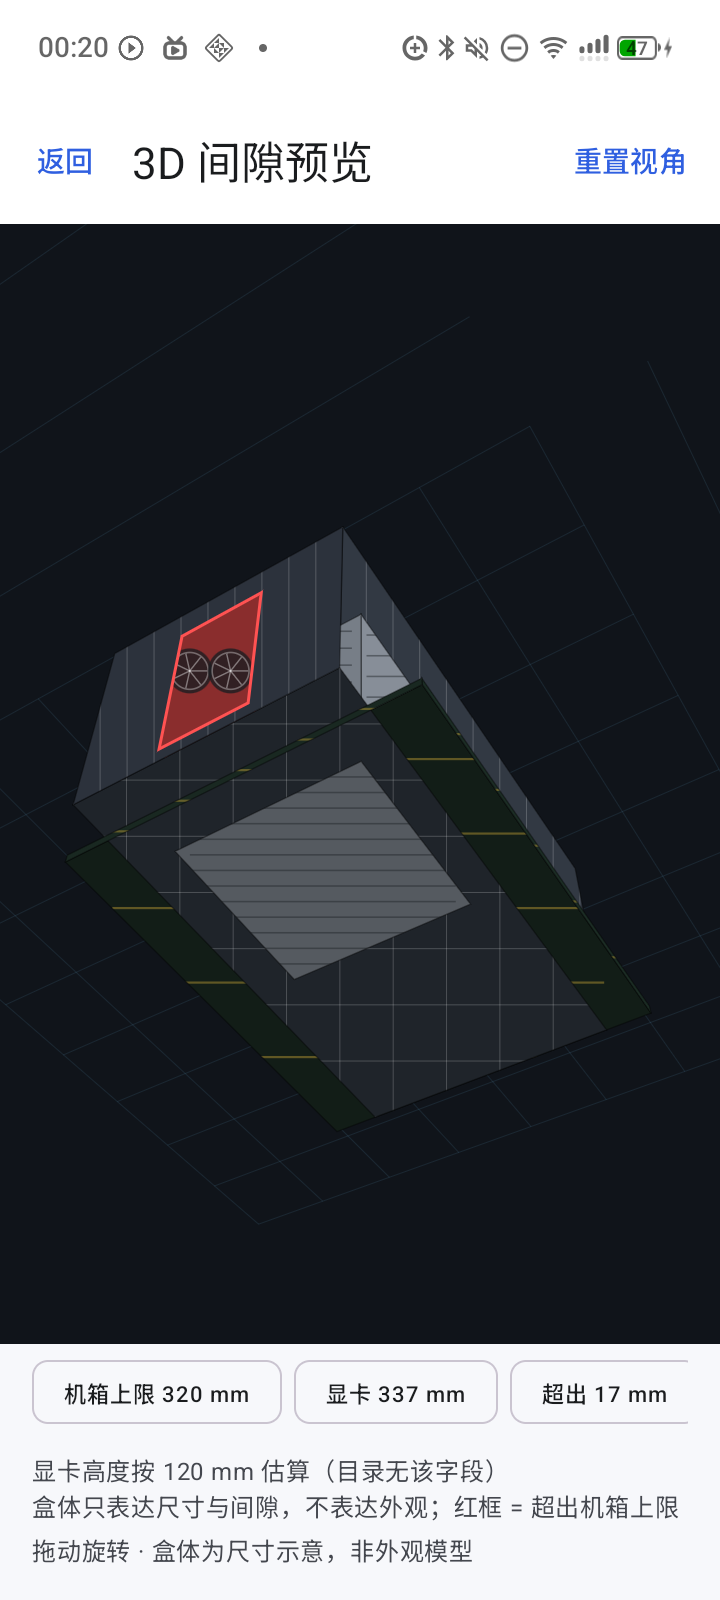
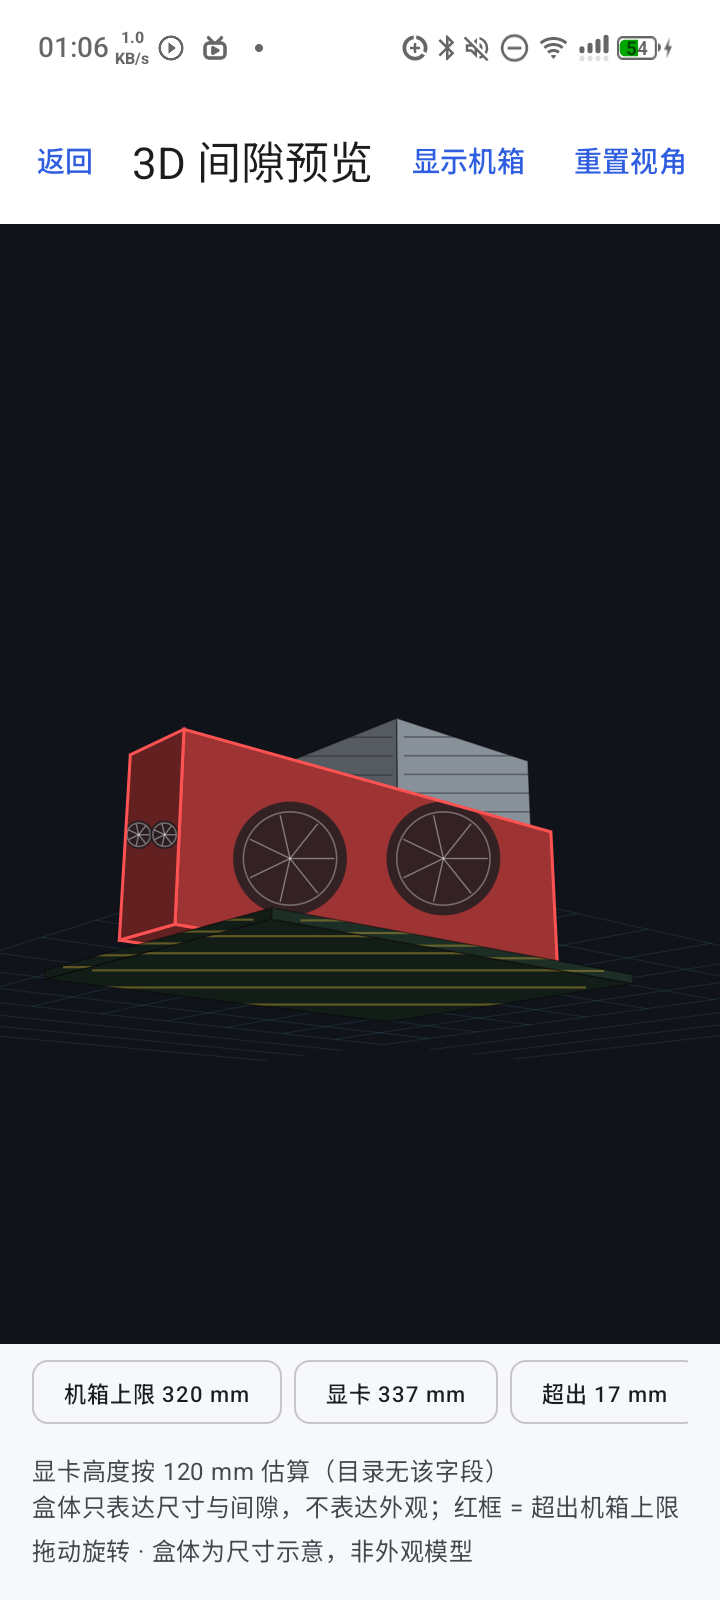
feat(viz): draw case as translucent ghost with show/hide toggle
The case envelope used to occlude the GPU because it was a solid depth-sorted box. It is now a non-sorted translucent wireframe container with a 隐藏机箱/显示机箱 action, so parts stay visible. Documents which four boxes are drawn and why CPU/RAM/PSU/SSD are not.

diff --git a/ui/src/main/kotlin/pcbuildmate/ui/preview/Preview3D.kt b/ui/src/main/kotlin/pcbuildmate/ui/preview/Preview3D.kt
@@ -56,6 +56,10 @@ fun Preview3DScreen(
     var yaw by rememberSaveable { mutableStateOf(0.72f) }
     var pitch by rememberSaveable { mutableStateOf(0.32f) }
     var zoom by rememberSaveable { mutableStateOf(1f) }
+    var showCase by rememberSaveable { mutableStateOf(true) }
+    val visibleScene = remember(scene, showCase) {
+        scene?.let { if (showCase) it else it.copy(boxes = it.boxes.filterNot { b -> b.style == BoxStyle.CASE }) }
+    }
 
     Scaffold(
         topBar = {
@@ -63,6 +67,9 @@ fun Preview3DScreen(
                 title = { Text("3D 间隙预览") },
                 navigationIcon = { TextButton(onClick = onBack) { Text("返回") } },
                 actions = {
+                    TextButton(onClick = { showCase = !showCase }) {
+                        Text(if (showCase) "隐藏机箱" else "显示机箱")
+                    }
                     TextButton(onClick = {
                         yaw = 0.72f
                         pitch = 0.32f
@@ -72,7 +79,7 @@ fun Preview3DScreen(
             )
         },
     ) { padding ->
-        if (scene == null) {
+        if (visibleScene == null) {
             Column(
                 modifier = Modifier
                     .fillMaxSize()
@@ -105,10 +112,10 @@ fun Preview3DScreen(
                 val pose = ViewPose(
                     yaw = yaw,
                     pitch = pitch,
-                    distance = scene.maxExtentMm * 2.7f / zoom,
+                    distance = visibleScene.maxExtentMm * 2.7f / zoom,
                 )
-                drawGroundGrid(scene, pose)
-                drawScene(scene, pose)
+                drawGroundGrid(visibleScene, pose)
+                drawScene(visibleScene, pose)
             }
 
             Column(Modifier.padding(horizontal = 16.dp).padding(bottom = 16.dp)) {
@@ -118,7 +125,7 @@ fun Preview3DScreen(
                         .horizontalScroll(rememberScrollState()),
                     horizontalArrangement = Arrangement.spacedBy(6.dp),
                 ) {
-                    scene.labels.forEach { label ->
+                    visibleScene.labels.forEach { label ->
                         AssistChip(
                             onClick = {},
                             label = { Text(label.text, style = MaterialTheme.typography.labelSmall) },
@@ -126,7 +133,7 @@ fun Preview3DScreen(
                     }
                 }
                 Spacer(Modifier.height(6.dp))
-                scene.notes.forEach { note ->
+                visibleScene.notes.forEach { note ->
                     Text(
                         note,
                         style = MaterialTheme.typography.bodySmall,
@@ -148,14 +155,30 @@ private val lightDir = Vec3(0.35f, 0.75f, -0.55f)
 
 private fun DrawScope.drawScene(scene: Scene3d, pose: ViewPose) {
     val center = Vec3(scene.maxExtentMm / 2f, scene.maxExtentMm * 0.42f, 0f)
-    val faces = scene.boxes.flatMap { box ->
-        facesOf(box)
-            .filter { isVisible(it, pose, center) }
-            .map { face ->
-                val projected = face.corners.map { project(it, center, pose, size.width, size.height) }
-                Triple(box, face, projected)
-            }
-    }.sortedByDescending { (_, _, pts) -> pts.map { it.depth }.average() }
+    fun facesOfBoxes(boxes: List<Box3>): List<Triple<Box3, FaceCorners, List<P2>>> =
+        boxes.flatMap { box ->
+            facesOf(box)
+                .filter { isVisible(it, pose, center) }
+                .map { face ->
+                    val projected = face.corners.map { project(it, center, pose, size.width, size.height) }
+                    Triple(box, face, projected)
+                }
+        }
+
+    // 机箱是"允许空间"容器：先画半透明轮廓，避免遮住内部零件。
+    val ghostFaces = facesOfBoxes(scene.boxes.filter { it.ghost })
+    ghostFaces.forEach { (_, _, pts) ->
+        val path = Path().apply {
+            moveTo(pts[0].x, pts[0].y)
+            for (i in 1 until pts.size) lineTo(pts[i].x, pts[i].y)
+            close()
+        }
+        drawPath(path, Color(0x0FFFFFFF))
+        drawPath(path, Color(0x887AD1FF), style = Stroke(width = 1.6f))
+    }
+
+    val faces = facesOfBoxes(scene.boxes.filterNot { it.ghost })
+        .sortedByDescending { (_, _, pts) -> pts.map { it.depth }.average() }
 
     faces.forEach { (box, face, pts) ->
         val path = Path().apply {

diff --git a/ui/src/test/kotlin/pcbuildmate/ui/preview/Scene3dTest.kt b/ui/src/test/kotlin/pcbuildmate/ui/preview/Scene3dTest.kt
@@ -30,6 +30,16 @@ class Scene3dTest {
     }
 
     @Test
+    fun `case is a ghost container so it cannot hide parts`() {
+        val scene = assertNotNull(SceneBuilder.build(revisionWith(gpu = "337", case = "320"), catalogue()))
+
+        val caseBox = scene.boxes.first { it.style == BoxStyle.CASE }
+        val gpuBox = scene.boxes.first { it.style == BoxStyle.GPU }
+        assertTrue(caseBox.ghost, "机箱必须半透明轮廓")
+        assertTrue(!gpuBox.ghost, "显卡必须实体绘制")
+    }
+
+    @Test
     fun `gpu that fits is not flagged`() {
         val scene = assertNotNull(
             SceneBuilder.build(revisionWith(gpu = "300", case = "320"), catalogue()),

diff --git a/ui/src/main/kotlin/pcbuildmate/ui/preview/Scene3d.kt b/ui/src/main/kotlin/pcbuildmate/ui/preview/Scene3d.kt
@@ -17,6 +17,8 @@ data class Box3(
     val size: Vec3,
     val style: BoxStyle,
     val conflict: Boolean = false,
+    /** 只画半透明轮廓（机箱允许空间），不遮挡内部零件。 */
+    val ghost: Boolean = false,
 )
 
 enum class Tone { NORMAL, WARN, MUTED }
@@ -76,6 +78,7 @@ object SceneBuilder {
             center = Vec3(depth / 2f, height / 2f, 0f),
             size = Vec3(depth, height, width),
             style = BoxStyle.CASE,
+            ghost = true,
         )
         val labels = mutableListOf<DimLabel>()
         if (caseLength != null) {

diff --git a/docs/17-3d-preview.md b/docs/17-3d-preview.md
@@ -40,7 +40,22 @@
 
 入口：Workspace →「3D 间隙预览」（任意配置可用）。
 
-## 17.4 数据与场景
+## 17.4 画了哪些设备
+
+| 盒体 | 数据来源 | 是否可隐藏 |
+|---|---|---|
+| 机箱允许空间 | `maxGpuLengthMm` / `maxGpuThicknessMm` / `maxCoolerHeightMm` | ✅「隐藏机箱」，默认半透明轮廓 |
+| 显卡 | `lengthMm` / `thicknessMm`；高度 120mm 估算 | ❌ |
+| 散热器 | `heightMm`；底面 130×130 示意 | ❌ |
+| 主板 | `formFactor` → ATX 305×244 / mATX 244×244 / ITX 170×170 | ❌ |
+
+**没有画**：CPU、内存、电源、硬盘——契约里没有它们的尺寸字段；
+强行画只能编数字，违反"没有数据就不给数字"的原则。后续若要画，先给字段表加路径（走契约变更）。
+
+机箱默认是**半透明线框容器**，不参与深度排序，先于零件绘制，
+所以不会遮住显卡；顶栏可「隐藏机箱 / 显示机箱」。
+
+## 17.5 数据与场景
 
 ```text
 机箱允许空间: X = maxGpuLengthMm, Y = maxCoolerHeightMm, Z = maxGpuThicknessMm
@@ -53,13 +68,14 @@
 - 散热高度超过 `maxCoolerHeightMm` → 红框；
 - 无独显配置只有机箱/主板/散热，并提示"核显输出"。
 
-## 17.5 交互
+## 17.6 交互
 
 - 拖动旋转（yaw/pitch）、`重置视角`；
+- `隐藏机箱 / 显示机箱`：机箱只是允许空间容器，默认半透明；
 - 底部显示尺寸标签和"这是示意"的 notes；
 - 无网络、无权限、无新依赖。
 
-## 17.6 后续可做（不在本次范围）
+## 17.7 后续可做（不在本次范围）
 
 - 真实机箱外壳轮廓（需要更多字段）；
 - 显卡高度/宽度字段进契约（当前是估算）；
